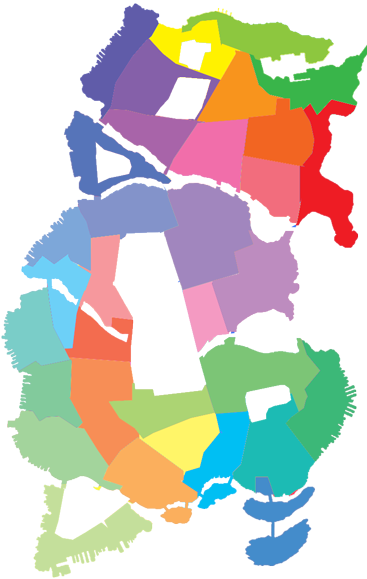
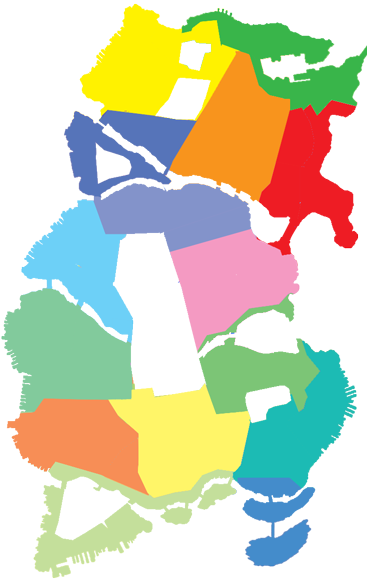
Added full list of city districts.

diff --git a/src/proto/game/world/Region.java b/src/proto/game/world/Region.java
@@ -33,25 +33,81 @@ public class Region extends Index.Entry implements Session.Saveable {
   
   final static Region
     PORT_ADAMS     = new Region("Port Adams"    , "region_pa"),
+    BLACKGATE      = new Region("Blackgate"     , "region_bg"),
     GOTHAM_CENTRAL = new Region("Gotham Central", "region_gc"),
+    OLD_GOTHAM     = new Region("Old Gotham"    , "region_og"),
     THE_TRICORNE   = new Region("The Tricorne"  , "region_tt"),
-    WEST_HILL      = new Region("West Hill"     , "region_wh"),
     
-    ALL_REGIONS[] = { PORT_ADAMS, GOTHAM_CENTRAL, THE_TRICORNE, WEST_HILL};
+    DINISBURG      = new Region("Dinisburg"     , "region_db"),
+    MILLER_BAY     = new Region("Miller Bay"    , "region_mb"),
+    BUSINESS_DIST  = new Region("Business Dist.", "region_bd"),
+    NOLAN_HOOK     = new Region("Nolan Hook"    , "region_nh"),
+    THE_LEESIDE    = new Region("The Leeside"   , "region_tl"),
+    
+    ARKHAM         = new Region("Arkham"        , "region_ak"),
+    CRIME_ALLEY    = new Region("Crime Alley"   , "region_ca"),
+    CAPE_FINGER    = new Region("Cape Finger"   , "region_cf"),
+    AMUSEMENT_MILE = new Region("Amusement Mile", "region_am"),
+    NEW_GOTHAM     = new Region("New Gotham"    , "region_ng"),
+    
+    ALL_REGIONS[] = {
+      PORT_ADAMS, BLACKGATE     , GOTHAM_CENTRAL, OLD_GOTHAM    , THE_TRICORNE,
+      DINISBURG , MILLER_BAY    , BUSINESS_DIST , NOLAN_HOOK    , THE_LEESIDE ,
+      ARKHAM    , CRIME_ALLEY   , CAPE_FINGER   , AMUSEMENT_MILE, NEW_GOTHAM  ,
+    };
     
   
   static {
+    
+    //  Downtown-
     final Region PA = PORT_ADAMS;
-    PA.view.attachColourKey(-12797832, "PA");
+    PA.view.attachColourKey(-14894156, "PA");
+
+    final Region BG = BLACKGATE;
+    BG.view.attachColourKey(-12284725, "BG");
     
     final Region GC = GOTHAM_CENTRAL;
-    GC.view.attachColourKey(-5450637 , "GC");
+    GC.view.attachColourKey(-2712    , "GC");
+    
+    final Region OG = OLD_GOTHAM;
+    OG.view.attachColourKey(-553386  , "WH");
     
     final Region TT = THE_TRICORNE;
     TT.view.attachColourKey(-3874917 , "TT");
     
-    final Region WH = WEST_HILL;
-    WH.view.attachColourKey(-6040420 , "WH");
+    
+    //  Midtown-
+    final Region DB = DINISBURG;
+    DB.view.attachColourKey(-8205668 , "DB");
+    
+    final Region MB = MILLER_BAY;
+    MB.view.attachColourKey(-8600202 , "MB");
+    
+    final Region BD = BUSINESS_DIST;
+    BD.view.attachColourKey(-746814  , "BD");
+    
+    final Region NH = NOLAN_HOOK;
+    NH.view.attachColourKey(-9580297 , "NH");
+    
+    final Region TL = THE_LEESIDE;
+    TL.view.attachColourKey(-8154166 , "TL");
+    
+    
+    //  Uptown-
+    final Region AK = ARKHAM;
+    AK.view.attachColourKey(-11111239, "AK");
+    
+    final Region CA = CRIME_ALLEY;
+    CA.view.attachColourKey(-486371  , "CA");
+    
+    final Region CF = CAPE_FINGER;
+    CF.view.attachColourKey(-1172444 , "CF");
+    
+    final Region AM = AMUSEMENT_MILE;
+    AM.view.attachColourKey(-12995254, "AM");
+    
+    final Region NG = NEW_GOTHAM;
+    NG.view.attachColourKey(-3584    , "NG");
   }
   
   

diff --git a/src/proto/view/WorldView.java b/src/proto/view/WorldView.java
@@ -26,12 +26,6 @@ public class WorldView {
   
   final World world;
   
-  /*
-  Nation selectedNation;
-  Person selectedPerson;
-  Room   selectedRoom;
-  //*/
-  
   Object lastSelected;
   int personPaneMode = PANE_ABILITIES;
   
@@ -42,7 +36,7 @@ public class WorldView {
   
   public WorldView(World world) {
     this.world = world;
-    mapView = new RegionsMapView(this, new Box2D(0, 0, 400, 600));
+    mapView = new RegionsMapView(this, new Box2D(320, 20, 360, 560));
     loadMedia();
   }
   
@@ -68,15 +62,10 @@ public class WorldView {
     */
   void renderTo(Surface surface, Graphics2D g) {
     
-    /*
-    for (Nation n : nations) if (n.currentMission() != null) {
-      Scene crisis = n.currentMission();
-      int x = (int) (n.region.view.centerX / mapWRatio);
-      int y = (int) (n.region.view.centerY / mapHRatio);
-      g.drawImage(alertMarker, x - 25, y - 25, 50, 50, null);
-      renderAssigned(crisis.playerTeam(), x - 25, y + 15, surface, g);
-    }
-    //*/
+    
+    final int wide = surface.getWidth(), high = surface.getHeight();
+    g.setColor(Color.BLACK);
+    g.fillRect(0, 0, wide, high);
     
     mapView.renderTo(surface, g);
     
@@ -86,7 +75,7 @@ public class WorldView {
     
     //
     //  Then draw the monitor-status active at the moment-
-    int x = (surface.getWidth() / 2) - 65, y = 330;
+    int x = (wide / 2) + 25, y = high - 10;
     //Batch <Scene> missions = world.missions();
     
     if (world.monitorActive()) {
@@ -227,7 +216,7 @@ public class WorldView {
     Printout print = world.game().print();
     
     final Base base = world.base();
-    final Nation n = null;// this.selectedNation;
+    final Nation n = mapView.selectedNation;
     final Person p = null;// this.selectedPerson;
     final Room   r = null;// this.selectedRoom;
     
@@ -288,8 +277,10 @@ public class WorldView {
             s.append("\n  "+u.name());
           }
           if (picks != null) {
-            if (picks.freeForAssignment()) r.addVisitor(picks);
-            else if (picks.assignment() == r) r.removeVisitor(picks);
+            if (picks.freeForAssignment() && r.allowsAssignment(picks)) {
+              r.setAssigned(picks, true);
+            }
+            else if (picks.assignment() == r) r.setAssigned(picks, false);
           }
         }
         
@@ -311,7 +302,6 @@ public class WorldView {
       s.append("\nTrust:   "+trustPercent+"%");
       s.append("\nCrime:   "+crimePercent+"%");
       s.append("\nLeague Member: "+n.member());
-      //s.append("\n\nCurrent crisis: "+crisisName);
     }
     
     else if (p != null && p == lastSelected) {

diff --git a/src/proto/view/RegionsMapView.java b/src/proto/view/RegionsMapView.java
@@ -12,6 +12,9 @@ import java.awt.image.*;
 
 public class RegionsMapView {
   
+  
+  /**  Data fields, construction, setup and attachment-
+    */
   final WorldView parent;
   final Box2D viewBounds;
   
@@ -74,6 +77,8 @@ public class RegionsMapView {
   
   
   
+  /**  Actual rendering methods-
+    */
   void renderTo(Surface surface, Graphics2D g) {
     Nation nations[] = parent.world.nations();
     attachOutlinesFor(nations);
@@ -103,7 +108,7 @@ public class RegionsMapView {
       pixVal = ((BufferedImage) keyImage).getRGB(mX, mY);
     }
     
-    //if (I.used60Frames) I.say("Pixel value is: "+pixVal);
+    ///if (I.used60Frames) I.say("Pixel value is: "+pixVal);
     
     for (Nation n : nations) if (n.region.view.colourKey == pixVal) {
       nationHovered = n;
@@ -114,6 +119,16 @@ public class RegionsMapView {
     
     renderOutline(selectedNation, surface, g, mapWRatio, mapHRatio);
     renderOutline(nationHovered , surface, g, mapWRatio, mapHRatio);
+
+    /*
+    for (Nation n : nations) if (n.currentMission() != null) {
+      Scene crisis = n.currentMission();
+      int x = (int) (n.region.view.centerX / mapWRatio);
+      int y = (int) (n.region.view.centerY / mapHRatio);
+      g.drawImage(alertMarker, x - 25, y - 25, 50, 50, null);
+      renderAssigned(crisis.playerTeam(), x - 25, y + 15, surface, g);
+    }
+    //*/
   }
   
   

diff --git a/src/proto/game/world/World.java b/src/proto/game/world/World.java
@@ -2,7 +2,6 @@
 
 package proto.game.world;
 import proto.common.*;
-import proto.game.content.*;
 import proto.game.person.*;
 import proto.util.*;
 import proto.view.*;
@@ -99,10 +98,12 @@ public class World implements Session.Saveable {
     base.addFacility(Blueprint.GENERATOR    , 2, 1f);
     base.addFacility(Blueprint.ARBORETUM    , 3, 1f);
     
+    /*
     base.addEquipment(BasicGear.MED_POUCH);
     base.addEquipment(BasicGear.BODY_VEST);
     base.addEquipment(BasicGear.FLASHBANG);
     base.addEquipment(BasicGear.INTERCOM );
+    //*/
     
     base.updateBase(0);
     base.currentFunds = 500;

diff --git a/src/proto/game/world/Room.java b/src/proto/game/world/Room.java
@@ -62,15 +62,9 @@ public class Room implements Session.Saveable, Assignment {
   
   /**  Toggling visitors-
     */
-  public void addVisitor(Person p) {
-    visitors.include(p);
-    p.setAssignment(this);
-  }
-  
-  
-  public void removeVisitor(Person p) {
-    visitors.remove(p);
-    p.setAssignment(null);
+  public void setAssigned(Person p, boolean is) {
+    visitors.toggleMember(p, is);
+    p.setAssignment(is ? this : null);
   }
   
   

diff --git a/src/proto/game/world/Assignment.java b/src/proto/game/world/Assignment.java
@@ -1,13 +1,14 @@
 
 
 package proto.game.world;
+import proto.common.*;
+import proto.game.person.*;
 
-import proto.common.Session;
-import proto.common.Session.Saveable;
-import proto.game.person.Person;
+
 
 public interface Assignment extends Session.Saveable {
   
   String name();
   boolean allowsAssignment(Person p);
+  void setAssigned(Person p, boolean is);
 }
